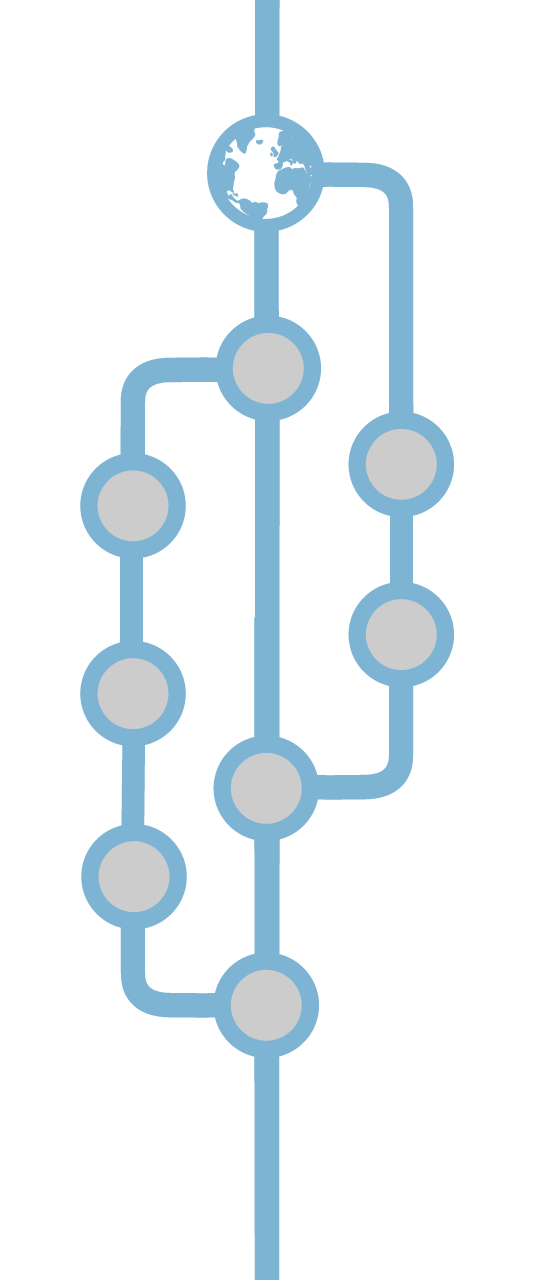
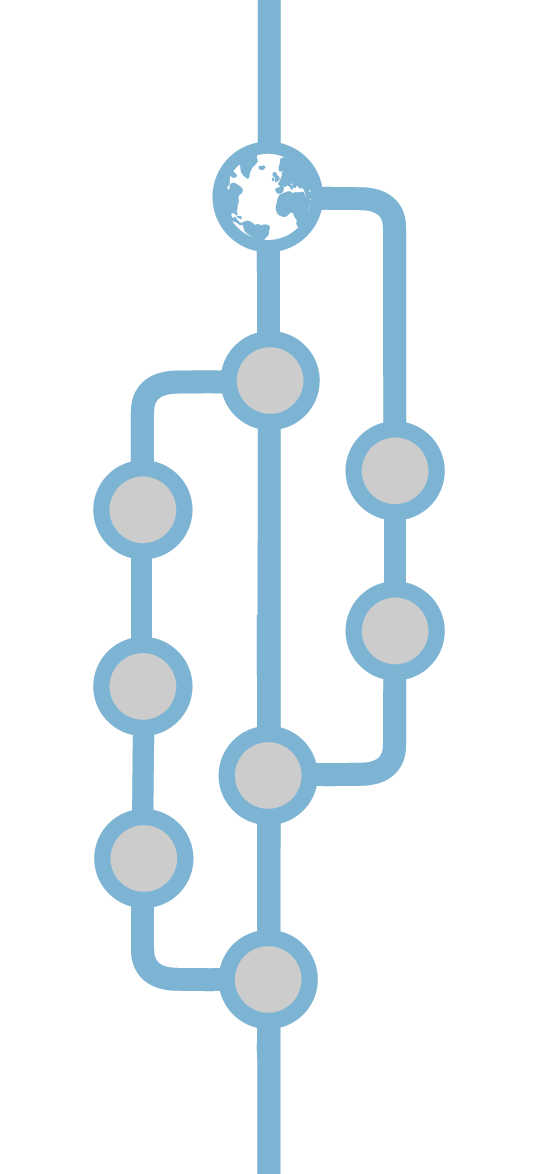
Small modifications to site

Changed region(s): [[0.149, 0.0, 0.8641, 1.0]]

diff --git a/index.html b/index.html
@@ -120,13 +120,8 @@
 
               <h2>Participate</h2>
 
-              <p>We are firmly in 'alpha' mode, working to release early and often, so please join us. Testing, documentation, ideas and patches are all greatly appreciated. Don't hesitate to <a href="https://groups.google.com/a/opengeo.org/group/geogit/">get in touch</a> with any issues, feedback or encouragement.</p>
-
-              <p>The project is hosted on github:</p>
-
-              <ul>
-              <li><a href="https://github.com/boundlessgeo/GeoGit">https://github.com/boundlessgeo/GeoGit</a></li>
-              </ul><p>Discussion takes place on our <a href="https://groups.google.com/a/opengeo.org/group/geogit/">geogit google group</a>. 
+              <p>The project is hosted on github: <a href="https://github.com/boundlessgeo/GeoGit">https://github.com/boundlessgeo/GeoGit</a></p>
+              <p>Discussion takes place on our <a href="https://groups.google.com/a/opengeo.org/group/geogit/">GeoGit Google Group</a>. 
               Please join and introduce yourself, we'd love to help, and to figure out ways for you to get involved.</p>
 
               <p>Participation is encouraged using the github <em>fork</em> and <em>pull request</em> workflow:</p>

diff --git a/stylesheets/custom.less b/stylesheets/custom.less
@@ -296,11 +296,16 @@ h1, h2, h3, h4, h5 {
 	h2 {
 		padding-top: 60px;
 	}
+
+	p {
+		margin-top: 30px;
+		margin-bottom: 30px;
+	}
 }
 
 #tree_img {
-		height: 1280px;
-		width: 530px;
+		height: 1174px;
+		width: 537px;
 		background: url(../images/git_tree.png) no-repeat;
 	
 		@media only screen and (-webkit-min-device-pixel-ratio: 2) {

diff --git a/stylesheets/custom.css b/stylesheets/custom.css
@@ -6219,9 +6219,13 @@ h5 {
 #participate h2 {
   padding-top: 60px;
 }
+#participate p {
+  margin-top: 30px;
+  margin-bottom: 30px;
+}
 #tree_img {
-  height: 1280px;
-  width: 530px;
+  height: 1174px;
+  width: 537px;
   background: url(../images/git_tree.png) no-repeat;
 }
 @media only screen and (-webkit-min-device-pixel-ratio: 2) {
